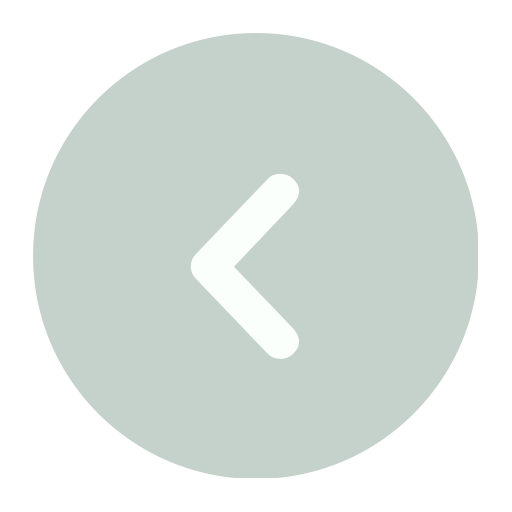
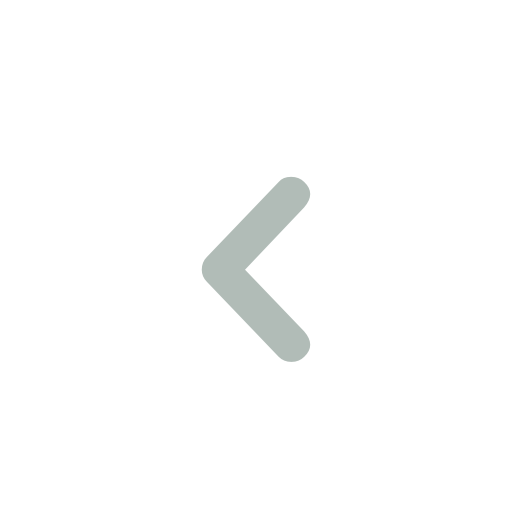
Corrected error displaying images on Firefox
Also, changed the left/right arrows to be less prominent

diff --git a/static/css/style.css b/static/css/style.css
@@ -81,6 +81,12 @@ a {
 }
 
 /* line 78, style.scss */
+.rounded-small img {
+  border-radius: 50%;
+  overflow: hidden;
+}
+
+/* line 83, style.scss */
 .center-content {
   position: relative;
   text-align: center;
@@ -88,93 +94,93 @@ a {
   margin-top: 0px;
 }
 
-/* line 85, style.scss */
+/* line 90, style.scss */
 .center-content h1, h2, h3, p {
   position: relative;
   top: 300px;
 }
 
-/* line 90, style.scss */
+/* line 95, style.scss */
 .social-media {
   position: relative;
   top: 350px;
 }
 
-/* line 95, style.scss */
+/* line 100, style.scss */
 .social-media img {
   height: 70px;
 }
 
-/* line 99, style.scss */
+/* line 104, style.scss */
 .linkedin_off, #linkedin:hover .linkedin_on {
   display: none;
 }
 
-/* line 103, style.scss */
+/* line 108, style.scss */
 .linkedin_on, #linkedin:hover .linkedin_off {
   display: inline;
 }
 
-/* line 107, style.scss */
+/* line 112, style.scss */
 .github_off, #github:hover .github_on {
   display: none;
 }
 
-/* line 111, style.scss */
+/* line 116, style.scss */
 .github_on, #github:hover .github_off {
   display: inline;
 }
 
-/* line 115, style.scss */
+/* line 120, style.scss */
 .mail_off, #mail:hover .mail_on {
   display: none;
 }
 
-/* line 119, style.scss */
+/* line 124, style.scss */
 .mail_on, #mail:hover .mail_off {
   display: inline;
 }
 
-/* line 123, style.scss */
+/* line 128, style.scss */
 .arrows img {
   height: 40px;
 }
 
-/* line 127, style.scss */
+/* line 132, style.scss */
 .arrows #left {
   position: fixed;
   top: 50%;
   left: 3%;
 }
 
-/* line 133, style.scss */
+/* line 138, style.scss */
 .arrows #right {
   position: fixed;
   top: 50%;
   right: 3%;
 }
 
-/* line 139, style.scss */
+/* line 144, style.scss */
 .left_off, #left:hover .left_on {
   display: none;
 }
 
-/* line 143, style.scss */
+/* line 148, style.scss */
 .left_on, #left:hover .left_off {
   display: inline;
 }
 
-/* line 147, style.scss */
+/* line 152, style.scss */
 .right_off, #right:hover .right_on {
   display: none;
 }
 
-/* line 151, style.scss */
+/* line 156, style.scss */
 .right_on, #right:hover .right_off {
   display: inline;
 }
 
-/* line 155, style.scss */
+/* line 160, style.scss */
 .footnote {
   position: relative;
   top: 100px;
@@ -182,7 +188,7 @@ a {
   margin-left: -15%;
 }
 
-/* line 163, style.scss */
+/* line 168, style.scss */
 .left-bar #profile {
   position: fixed;
   top: 0px;
@@ -192,7 +198,7 @@ a {
   z-index: -1;
 }
 
-/* line 174, style.scss */
+/* line 179, style.scss */
 .top-bar h1 {
   position: absolute;
   overflow: auto;

diff --git a/warning.html b/warning.html
@@ -28,34 +28,34 @@
   <body>
 	<section class="center-content">
 		<div id="content-area">	
-			<img class="rounded" src="static\images\warning.png" />
+			<img class="rounded" src="static/images/warning.png" />
 			<h2 style="color:#F1C40F;">Warning! You're trying to see the future.</h2>
 			<p>This page doesn't exist yet, but don't worry, I'm working hard on it! Meanwhile, if you want to know more about me and my work you can look at my curriculum and repository or contact me.</p>
 		</div>
 		
 		<section class="social-media">
 			<a target="_blank" href="https://pt.linkedin.com/in/joaomonteiro100" id="linkedin">
-				<img class="linkedin_off" src="static\images\linkedin.png" alt="LinkedIn"/>
-				<img class="linkedin_on" src="static\images\linkedin_b&w.png" alt="LinkedIn"/>
+				<img class="linkedin_off" src="static/images/linkedin.png" alt="LinkedIn"/>
+				<img class="linkedin_on" src="static/images/linkedin_b&w.png" alt="LinkedIn"/>
 			</a>
 			<a target="_blank" href="https://github.com/JoaoMonteiro100" id="github">
-				<img class="github_off" src="static\images\github.png" alt="GitHub"/>
-				<img class="github_on" src="static\images\github_b&w.png" alt="GitHub"/>
+				<img class="github_off" src="static/images/github.png" alt="GitHub"/>
+				<img class="github_on" src="static/images/github_b&w.png" alt="GitHub"/>
 			</a>
 			<a target="_top" href="mailto:joaomiguelmonteiro@gmail.com" id="mail">
-				<img class="mail_off" src="static\images\mail.png" alt="Mail"/>
-				<img class="mail_on" src="static\images\mail_b&w.png" alt="Mail"/>
+				<img class="mail_off" src="static/images/mail.png" alt="Mail"/>
+				<img class="mail_on" src="static/images/mail_b&w.png" alt="Mail"/>
 			</a>
 		</section>
 	
-		<section class="arrows">
+		<section class="arrows rounded-small">
 			<a href="rocket.html" id="left">
-				<img class="left_off" src="static\images\left_off.png" />
-				<img class="left_on" src="static\images\left_on.png" />
+				<img class="left_off" src="static/images/left_off.png" />
+				<img class="left_on" src="static/images/left_on.png" />
 			</a>
 			<a href="code.html" id="right">
-				<img class="right_off" src="static\images\right_off.png" />
-				<img class="right_on" src="static\images\right_on.png" />
+				<img class="right_off" src="static/images/right_off.png" />
+				<img class="right_on" src="static/images/right_on.png" />
 			</a>
 		</section>
 	

diff --git a/code.html b/code.html
@@ -28,34 +28,34 @@
   <body>
 	<section class="center-content">
 		<div id="content-area">	
-			<img class="rounded" src="static\images\code.png" />
+			<img class="rounded" src="static/images/code.png" />
 			<h1>ERROR: Site code incomplete. Self-destruct: activated. In 9... 8...</h1>
 			<p>Wait, WAIT! I'm working hard on it, I promise! Meanwhile, if you want to know more about me and my work you can look at my curriculum and repository or contact me.</p>
 		</div>
 		
 		<section class="social-media">
 			<a target="_blank" href="https://pt.linkedin.com/in/joaomonteiro100" id="linkedin">
-				<img class="linkedin_off" src="static\images\linkedin.png" alt="LinkedIn"/>
-				<img class="linkedin_on" src="static\images\linkedin_b&w.png" alt="LinkedIn"/>
+				<img class="linkedin_off" src="static/images/linkedin.png" alt="LinkedIn"/>
+				<img class="linkedin_on" src="static/images/linkedin_b&w.png" alt="LinkedIn"/>
 			</a>
 			<a target="_blank" href="https://github.com/JoaoMonteiro100" id="github">
-				<img class="github_off" src="static\images\github.png" alt="GitHub"/>
-				<img class="github_on" src="static\images\github_b&w.png" alt="GitHub"/>
+				<img class="github_off" src="static/images/github.png" alt="GitHub"/>
+				<img class="github_on" src="static/images/github_b&w.png" alt="GitHub"/>
 			</a>
 			<a target="_top" href="mailto:joaomiguelmonteiro@gmail.com" id="mail">
-				<img class="mail_off" src="static\images\mail.png" alt="Mail"/>
-				<img class="mail_on" src="static\images\mail_b&w.png" alt="Mail"/>
+				<img class="mail_off" src="static/images/mail.png" alt="Mail"/>
+				<img class="mail_on" src="static/images/mail_b&w.png" alt="Mail"/>
 			</a>
 		</section>
 	
-		<section class="arrows">
+		<section class="arrows rounded-small">
 			<a href="warning.html" id="left">
-				<img class="left_off" src="static\images\left_off.png" />
-				<img class="left_on" src="static\images\left_on.png" />
+				<img class="left_off" src="static/images/left_off.png" />
+				<img class="left_on" src="static/images/left_on.png" />
 			</a>
 			<a href="rocket.html" id="right">
-				<img class="right_off" src="static\images\right_off.png" />
-				<img class="right_on" src="static\images\right_on.png" />
+				<img class="right_off" src="static/images/right_off.png" />
+				<img class="right_on" src="static/images/right_on.png" />
 			</a>
 		</section>
 	

diff --git a/rocket.html b/rocket.html
@@ -28,34 +28,34 @@
   <body>
 	<section class="center-content">
 		<div id="content-area">	
-			<img class="rounded" src="static\images\rocket.png" />
+			<img class="rounded" src="static/images/rocket.png" />
 			<h2>Creating a webpage isn't rocket science... But it does take time.</h2>
 			<p>Don't worry, I'm working hard on it! Meanwhile, if you want to know more about me and my work you can look at my curriculum and repository or contact me.</p>
 		</div>
 		
 		<section class="social-media">
 			<a target="_blank" href="https://pt.linkedin.com/in/joaomonteiro100" id="linkedin">
-				<img class="linkedin_off" src="static\images\linkedin.png" alt="LinkedIn"/>
-				<img class="linkedin_on" src="static\images\linkedin_b&w.png" alt="LinkedIn"/>
+				<img class="linkedin_off" src="static/images/linkedin.png" alt="LinkedIn"/>
+				<img class="linkedin_on" src="static/images/linkedin_b&w.png" alt="LinkedIn"/>
 			</a>
 			<a target="_blank" href="https://github.com/JoaoMonteiro100" id="github">
-				<img class="github_off" src="static\images\github.png" alt="GitHub"/>
-				<img class="github_on" src="static\images\github_b&w.png" alt="GitHub"/>
+				<img class="github_off" src="static/images/github.png" alt="GitHub"/>
+				<img class="github_on" src="static/images/github_b&w.png" alt="GitHub"/>
 			</a>
 			<a target="_top" href="mailto:joaomiguelmonteiro@gmail.com" id="mail">
-				<img class="mail_off" src="static\images\mail.png" alt="Mail"/>
-				<img class="mail_on" src="static\images\mail_b&w.png" alt="Mail"/>
+				<img class="mail_off" src="static/images/mail.png" alt="Mail"/>
+				<img class="mail_on" src="static/images/mail_b&w.png" alt="Mail"/>
 			</a>
 		</section>
 	
-		<section class="arrows">
+		<section class="arrows rounded-small">
 			<a href="code.html" id="left">
-				<img class="left_off" src="static\images\left_off.png" />
-				<img class="left_on" src="static\images\left_on.png" />
+				<img class="left_off" src="static/images/left_off.png" />
+				<img class="left_on" src="static/images/left_on.png" />
 			</a>
 			<a href="warning.html" id="right">
-				<img class="right_off" src="static\images\right_off.png" />
-				<img class="right_on" src="static\images\right_on.png" />
+				<img class="right_off" src="static/images/right_off.png" />
+				<img class="right_on" src="static/images/right_on.png" />
 			</a>
 		</section>
 	

diff --git a/static/css/style.scss b/static/css/style.scss
@@ -75,6 +75,11 @@ a {
   left: 50%;
 }
 
+.rounded-small img{
+  border-radius: 50%;
+  overflow: hidden;
+}
+
 .center-content {
   position: relative;
   text-align: center;
